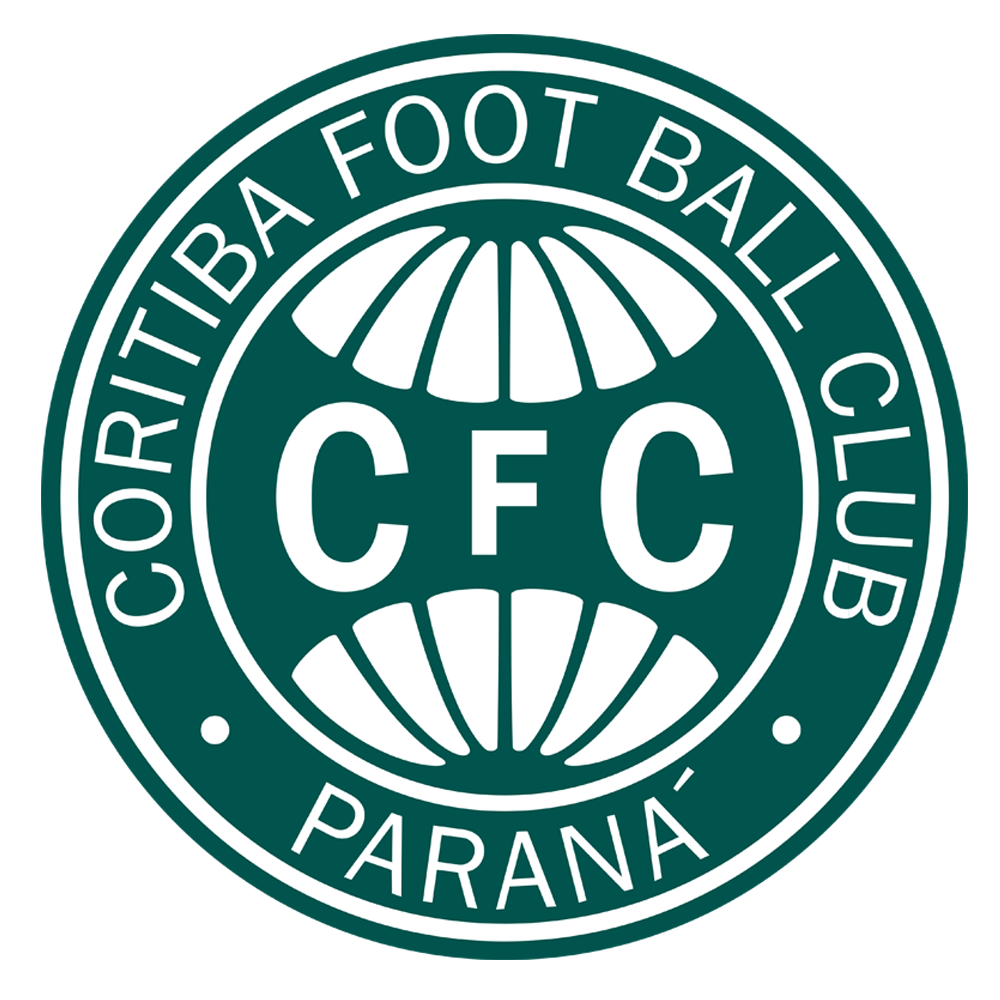
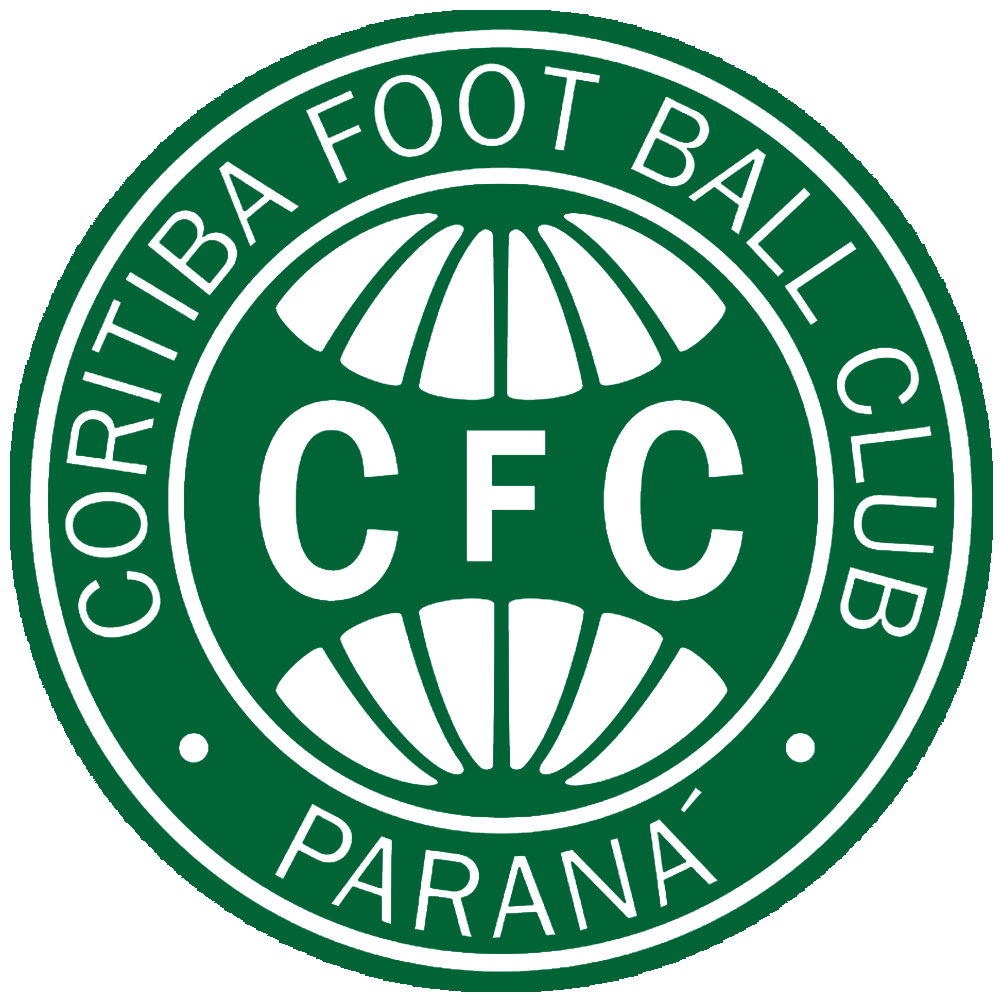
mudando cores do coritiba

diff --git a/cores.js b/cores.js
@@ -84,7 +84,7 @@ function coresTimes(time, jogo = null) {
 		case "Corinthians":
 			return ["black", "white"];
 		case "Coritiba":
-			return ["#00544d", "white"];
+			return ["#006437", "white"];
 		case "CRB":
 			return ["#d30a11", "white"];
 		case "Criciúma":
